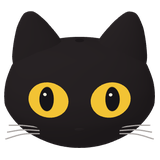
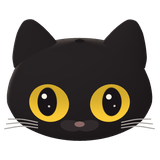
feat: redraw the desk kittens and shape their rim lighting

Changed region(s): [[0.0, 0.0625, 0.9688, 0.9375], [0.4688, 0.75, 0.5312, 0.8125]]

diff --git a/examples/pawside-3d/web/scene.js b/examples/pawside-3d/web/scene.js
@@ -208,12 +208,13 @@
       a.setZ(i, faceDepth(a.getX(i), a.getY(i)) + 0.039);
     return mesh(head, g, mat);
   }
-  function inkForepaw(fur) {
+  function inkForepaw(fur, side) {
     const material = fur.clone();
     // The paw cap is a sphere. Only the foreleg needs a fade into the shoulder.
     material.defaultAttributeValues = { pawContrast: [1] };
     material.onBeforeCompile = (shader) => {
-      shader.uniforms.pawFill = { value: new T.Color('#ada1a3') };
+      shader.uniforms.pawFill = { value: new T.Color('#d5c7b9') };
+      shader.uniforms.pawSide = { value: side };
       shader.vertexShader =
         'attribute float pawContrast; varying float pawWeight;\n' +
         shader.vertexShader.replace(
@@ -221,13 +222,16 @@
           '#include <begin_vertex>\npawWeight = pawContrast;'
         );
       shader.fragmentShader =
-        'uniform vec3 pawFill; varying float pawWeight;\n' +
+        'uniform vec3 pawFill; uniform float pawSide; varying float pawWeight;\n' +
         shader.fragmentShader.replace(
           '#include <opaque_fragment>',
           `float facing = abs(dot(normalize(normal), normalize(vViewPosition)));
-           float rim = 1.0 - smoothstep(0.08, 0.65, facing);
+           float rim = 1.0 - smoothstep(0.12, 0.52, facing);
+           float innerArc = smoothstep(-0.35, 0.55, -normal.x * pawSide);
+           float crest = smoothstep(0.03, 0.19, facing) * (1.0 - smoothstep(0.24, 0.45, facing));
+           float glancingLight = rim * (0.15 + 0.47 * innerArc) + 0.26 * crest * innerArc;
            float darkCoat = 1.0 - smoothstep(0.05, 0.25, dot(diffuse, vec3(0.2126, 0.7152, 0.0722)));
-           outgoingLight = mix(outgoingLight, pawFill, pawWeight * darkCoat * (0.082 + 0.34 * rim));
+           outgoingLight = mix(outgoingLight, pawFill, pawWeight * darkCoat * (0.035 + glancingLight));
            #include <opaque_fragment>`
         );
     };
@@ -243,29 +247,43 @@
           ? new T.MeshLambertMaterial({ color: tint, side: T.DoubleSide })
           : color(tint);
     }
+    if (!long) {
+      // A grazing studio light catches short arcs on the cheek and shoulder at a turn.
+      mats.fur.onBeforeCompile = (shader) => {
+        shader.fragmentShader = shader.fragmentShader.replace(
+          '#include <opaque_fragment>',
+          `float grazing = 1.0 - smoothstep(0.07, 0.48, abs(dot(normal, normalize(vViewPosition))));
+           float litSide = smoothstep(0.16, 0.95, dot(normal, normalize(vec3(-0.62, 0.78, 0.08))));
+           outgoingLight += vec3(0.072, 0.059, 0.050) * grazing * litSide;
+           #include <opaque_fragment>`
+        );
+      };
+    }
     mats.pupil = color('#17151b');
-    mats.whisk = color(long ? '#f3cdac' : '#aba6a4');
+    mats.whisk = color(long ? '#f3cdac' : '#aca5a2');
+    const muzzleTint = color(long ? p.light : '#322b2d');
+    const noseTint = color(long ? '#946856' : '#8c6865');
     mats.sole = color(long ? '#f4d3af' : '#f1ede2');
     const root = group(parent),
       trunk = group(root),
       head = group(root);
     const body = skinSurface(trunk, mats.fur, [
       [0.035, 0.44, 0.44, 0.08, -0.19],
-      [0.13, 0.78, 0.73, 0.1, -0.25],
-      [0.45, 0.96, 0.88, 0.13, -0.27],
-      [0.88, 0.93, 0.87, 0.1, -0.24],
-      [1.4, 0.78, 0.73, 0.03, -0.13],
-      [1.9, 0.62, 0.58, -0.06, -0.01],
+      [0.14, 0.86, 0.77, 0.07, -0.23],
+      [0.47, 1.06, 0.91, 0.08, -0.21],
+      [0.92, 1.02, 0.91, 0.045, -0.15],
+      [1.41, 0.88, 0.78, -0.005, -0.07],
+      [1.89, 0.69, 0.61, -0.065, 0.00],
       [2.35, 0.47, 0.46, -0.1, 0.05],
       [2.66, 0.39, 0.38, -0.11, 0.08],
     ]);
     const sideShape = skinSurface(trunk, mats.fur, [
       [0.035, 0.61, 0.48, 0.3, -0.13],
       [0.13, 1.05, 0.68, 0.32, -0.18],
-      [0.45, 1.19, 0.76, 0.25, -0.24],
-      [0.88, 1.13, 0.75, 0.12, -0.2],
-      [1.4, 0.91, 0.67, -0.18, -0.09],
-      [1.9, 0.72, 0.57, -0.51, 0.0],
+      [0.45, 1.24, 0.82, 0.20, -0.20],
+      [0.96, 1.18, 0.81, 0.065, -0.15],
+      [1.52, 0.96, 0.72, -0.23, -0.06],
+      [1.98, 0.74, 0.61, -0.56, 0.04],
       [2.35, 0.54, 0.47, -0.83, 0.09],
       [2.66, 0.41, 0.40, -0.99, 0.12],
     ]);
@@ -306,28 +324,29 @@
     }
     // A rounded trapezoid under the ears gives the face width at the cheeks.
     skinSurface(head, mats.fur, [
-      [-0.7, 0.055, 0.065, 0, 0.03],
-      [-0.61, 0.48, 0.4, 0, 0.02],
-      [-0.43, 0.78, 0.57, 0, 0],
-      [-0.16, 0.94, 0.68, 0, 0],
-      [0.13, 0.92, 0.68, 0, -0.008],
-      [0.4, 0.806, 0.55, 0, -0.02],
-      [0.59, 0.53, 0.39, 0, -0.025],
-      [0.69, 0.055, 0.06, 0, -0.05],
+      [-0.67, 0.095, 0.095, 0, 0.055],
+      [-0.57, 0.60, 0.47, 0, 0.06],
+      [-0.41, 0.89, 0.61, 0, 0.045],
+      [-0.15, 1.01, 0.70, 0, 0.015],
+      [0.15, 0.96, 0.71, 0, 0.0],
+      [0.44, 0.82, 0.60, 0, -0.009],
+      [0.64, 0.57, 0.43, 0, -0.02],
+      [0.75, 0.065, 0.075, 0, -0.035],
     ]);
-    head.scale.set(1.11, 1.055, 1.075);
+    head.scale.set(long ? 1.17 : 1.20, 1.13, 1.10);
     const ears = [],
       eyes = [],
       feet = [],
       arms = [],
       hind = [],
       tufts = [];
-    const sleeve = long
+    const bibSleeve = long
       ? new T.MeshLambertMaterial({ vertexColors: true, side: T.DoubleSide })
-      : inkForepaw(mats.fur);
+      : null;
     for (const side of [-1, 1]) {
+      const sleeve = bibSleeve || inkForepaw(mats.fur, side);
       const ear = group(head);
-      ear.position.set(side * (long ? 0.51 : 0.46), 0.35, -0.12);
+      ear.position.set(side * (long ? 0.57 : 0.54), 0.40, -0.11);
       skinSurface(
         ear,
         mats.fur,
@@ -409,10 +428,15 @@
           [side * 0.39, 0.38, side * 0.37, 0.46],
         ]);
       }
-      ear.scale.set(1.03, long ? 0.93 : 0.87, 1);
+      if (!long) {
+        // Low-contrast muzzle pads keep the nose legible against the black coat.
+        const pad = egg(head, muzzleTint, side * 0.107, -0.236, 0.694, 0.15, 0.091, 0.063);
+        pad.rotation.z = side * 0.13;
+      }
+      ear.scale.set(1.04, long ? 0.91 : 0.80, 1);
       ears.push(ear);
       const socket = group(head);
-      socket.position.set(side * 0.37, 0.182, 0.641);
+      socket.position.set(side * 0.399, 0.113, 0.703);
       socket.rotation.set(-0.2, side * 0.28, 0);
       const lid = group(socket);
       const paint = color(p.eye);
@@ -434,21 +458,24 @@
             `#include <color_fragment>
           vec2 pt=eyePoint-pawGaze;
           float iris=1.-smoothstep(.94,1.02,length(pt/pawPupil));
-          diffuseColor.rgb=mix(diffuseColor.rgb,vec3(.008,.007,.009),iris);
-          float glint=1.-smoothstep(.070,.099,length(pt-vec2(-.09,.27)));
-          diffuseColor.rgb=mix(diffuseColor.rgb,vec3(.98,.95,.83),glint*.88);`
+          float lower=1.-smoothstep(-.86,.65,eyePoint.y);
+          diffuseColor.rgb*=mix(.73,1.10,lower);
+          diffuseColor.rgb=mix(diffuseColor.rgb,vec3(.009,.007,.009),iris);
+          float glint=1.-smoothstep(.115,.149,length(pt-vec2(-.15,.30)));
+          float fleck=1.-smoothstep(.045,.068,length(pt-vec2(.11,-.20)));
+          diffuseColor.rgb=mix(diffuseColor.rgb,vec3(1.,.96,.84),max(glint*.96,fleck*.57));`
           );
       };
-      egg(lid, paint, 0, 0, 0, 0.248, 0.223, 0.079);
+      egg(lid, paint, 0, 0, 0, 0.272, 0.268, 0.092);
       eyes.push({ socket, lid, gaze, pupil });
       for (let j = 0; j < 3; j++)
         stroke(
           head,
           mats.whisk,
           [
-            [side * 0.49, -0.255 - j * 0.044, 0.53],
-            [side * 0.69, -0.252 - j * 0.062, 0.48],
-            [side * (0.87 + 0.025 * j), -0.3 - j * 0.1, 0.38],
+            [side * 0.56, -0.235 - j * 0.044, 0.60],
+            [side * 0.77, -0.236 - j * 0.055, 0.50],
+            [side * (0.97 + 0.028 * j), -0.27 - j * 0.079, 0.42],
           ],
           0.008
         );
@@ -527,7 +554,7 @@
       });
     }
     const mouth = group(head);
-    mouth.position.set(0, -0.335, long ? 0.713 : 0.642);
+    mouth.position.set(0, -0.328, long ? 0.747 : 0.735);
     mouth.rotation.x = -0.39;
     const lip = color(long ? '#774337' : '#654656');
     egg(mouth, lip, 0, 0, 0, 0.12, 0.105, 0.027);
@@ -554,13 +581,13 @@
     }
     const nose = egg(
       head,
-      long ? mats.shade : mats.fur,
+      noseTint,
       0,
-      -0.215,
-      long ? 0.728 : 0.656,
-      0.064,
-      0.035,
-      0.022
+      -0.187,
+      long ? 0.754 : 0.758,
+      0.067,
+      0.040,
+      0.034
     );
     return {
       root,
@@ -1011,11 +1038,11 @@
           (0.91 + 0.18 * m.grab) * sideways +
           leanX * 1.03 +
           0.13 * rub * Math.sin(t * 6),
-        hz = 0.145 + leanZ * 1.11;
+        hz = 0.20 + leanZ * 1.11;
       c.head.position.set(
         hx,
-        2.98 +
-          0.15 * (1 - sideways) +
+        2.86 +
+          0.34 * (1 - sideways) +
           0.025 * breath -
           dip +
           0.1 * h +
@@ -1062,10 +1089,10 @@
           0.12 - 0.07 * typing + 0.22 * m.gaze[1]
         );
         eye.pupil.value.set(
-          (0.37 + 0.31 * m.hunt + 0.095 * slowLook + 0.14 * m.lookup) *
+          (0.50 + 0.26 * m.hunt + 0.095 * slowLook + 0.14 * m.lookup) *
             (1 - 0.44 * d) *
             (1 - 0.42 * heat),
-          0.7 + 0.065 * m.hunt
+          0.77 + 0.065 * m.hunt
         );
         const e = c.ears[i];
         e.rotation.z =
@@ -1079,9 +1106,14 @@
         e.rotation.x = -0.22 * heat + 0.06 * m.earBounce;
         const pp = m.paws[i].pos,
           baseX = -0.12 - 0.43 * sideways + leanX * 0.78,
-          root = V(baseX + s * 0.31, 1.78 - dip * 0.39, 0.36 + leanZ * 0.71),
+          reachSide = i === 0 ? sideways : 0,
+          root = V(
+            baseX + s * 0.31 - 0.21 * reachSide,
+            1.78 - dip * 0.39,
+            0.36 + leanZ * 0.71 - 0.08 * reachSide
+          ),
           end = covered
-            ? c.head.localToWorld(V(s * 0.36, 0.13, 0.84))
+            ? c.head.localToWorld(V(s * 0.397, 0.11, 0.88))
             : V(pp.x, pp.y, pp.z);
         const away = Math.abs(end.x - root.x);
         const elbow = V(
@@ -1092,7 +1124,7 @@
         const curl = clamp((end.y - 0.37) * 2) * (1 - sideways) * (1 - n);
         // Pull the elbow in behind the wrist so the reaching foreleg has a visible bend.
         if (i === 0) {
-          elbow.x += 0.26 * sideways;
+          elbow.x += 0.17 * sideways;
           elbow.y -= 0.16 * sideways;
           elbow.z -= 0.12 * sideways;
         }
@@ -1133,7 +1165,7 @@
           clamp((root.x - end.x) * 0.24, -0.53, 0.53) +
           s * 0.52 * curl;
         c.hind[i].position.set(
-          0.05 + s * 0.64 + 0.08 * sideways,
+          0.05 + s * 0.68 + 0.07 * sideways,
           0.099,
           0.64 + (i ? -0.02 : 0.05) * sideways
         );

diff --git a/examples/pawside-3d/REFERENCE-WORKFLOW.md b/examples/pawside-3d/REFERENCE-WORKFLOW.md
@@ -28,4 +28,8 @@ npm run reference:frames -- ./frames
 
 自动检查覆盖姿态状态和关键坐标。最终相似度仍需看原片及两种形象的实际取帧。逐键演示在工作室内复现，外部应用用匿名节奏。两种形象已经走完同一套检查。开发包内的 `Reference-Take/` 附本次导出的 12 张实际渲染图和清单。
 
-本次也用眼睛到键盘前缘的垂直距离检查墨爪的头部姿态，统一用可见键盘宽度作单位，取值近似。2.13 秒原片约 0.69，调校后约 0.67。3.83 秒原片约 0.68，调校后约 0.65。这两个数只核对头位，尾巴接触和握鼠仍须看连续播放。
+### 脸、坐姿和爪边高光
+
+把原片和实际画面按键盘前缘的宽度对齐，在 0.47 秒看侧脸、肩背和握鼠的弧度，在 15.30 秒看正脸和坐姿。用双眼到键盘前缘的垂直距离核对头高，以键盘宽度为单位。2.13 秒原片约 0.69，当前墨爪约 0.66。3.83 秒原片约 0.68，当前约 0.64。数值只反映头高。
+
+在 420 × 288 的透明小窗重放慢敲、锤键和捂眼。检查贴着胸口的前爪是否有一段可见的高光、肩根的线是否自然收住，以及视线转动时眼内反光是否仍清晰。再用栗酥运行同一段，观察长毛胸口、绿色眼睛和耳尖的轮廓。
